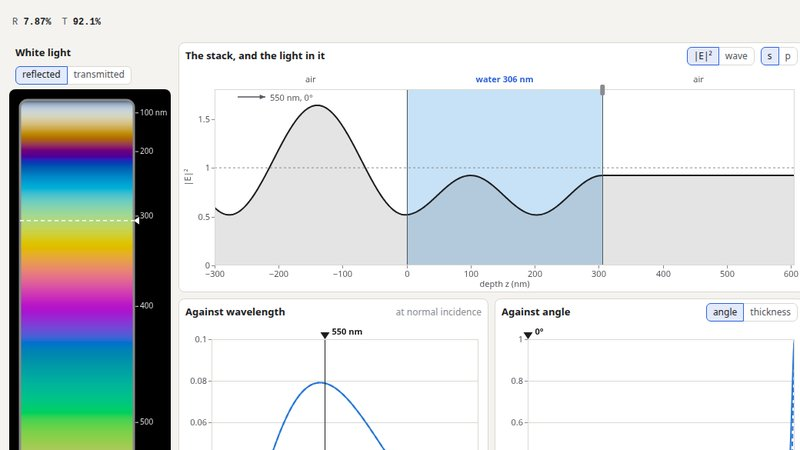
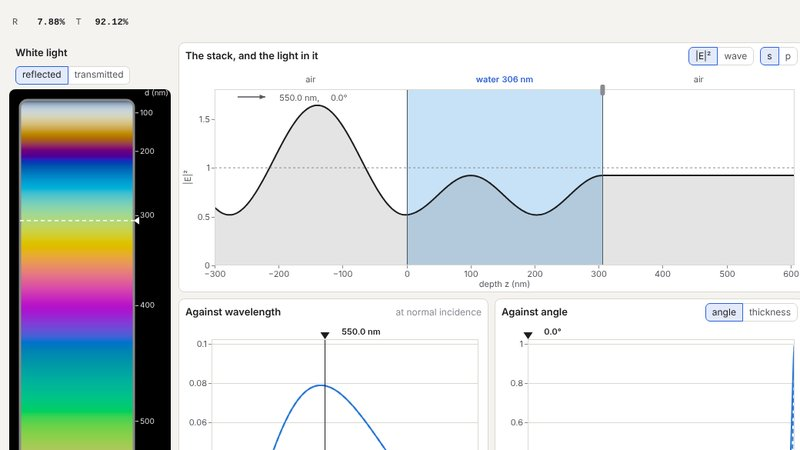
Thin films: the white-light picture's scale says it is the thickness
The numbers beside the white-light picture (200, 400, 600 nm) had no
heading, and nothing on the page said they were the selected layer's
thickness; the scale is now headed "d (nm)", the name the thickness
slider uses.  The thumbnail is remade with it and the plots' new room
above 1 and below 0.  The unit test waits up to 30 s, not 5, for the
page in its frame to start on a busy machine.

Claude-Session: https://claude.ai/code/session_01Uf588EmEoW67UxQKckEGyR

diff --git a/thinfilms/app.js b/thinfilms/app.js
@@ -754,17 +754,17 @@ function drawFilm() {
   ctx.restore();
   ctx.strokeStyle = view === 'T' ? '#777' : '#888'; ctx.lineWidth = 3;
   roundRect(ctx, fx, fy, fw, fh, 10); ctx.stroke();
-  // A thickness scale on the right.
-  ctx.font = '10px system-ui, sans-serif'; ctx.textAlign = 'left'; ctx.textBaseline = 'middle'; ctx.fillStyle = ink; ctx.strokeStyle = ink; ctx.lineWidth = 1;
+  // A thickness scale on the right, headed with what it is: the selected layer's thickness.
+  ctx.font = '10px system-ui, sans-serif'; ctx.textAlign = 'right'; ctx.textBaseline = 'alphabetic'; ctx.fillStyle = ink; ctx.strokeStyle = ink; ctx.lineWidth = 1;
+  ctx.fillText('d (nm)', width - 3, fy - 6);
+  ctx.textAlign = 'left'; ctx.textBaseline = 'middle';
   const top = state.film.profile === 'wedge' ? state.film.dmax : state.film.hBottom;
-  let first = true;           // the unit goes on the first label
   for (const t of niceTicks(0, top, 5)) {
     const y = filmHeightOf(t);
     if (y === null || t === 0 && state.film.profile !== 'wedge') continue;
     const py = fy + y * fh;
     ctx.beginPath(); ctx.moveTo(fx + fw + 2, py); ctx.lineTo(fx + fw + 6, py); ctx.stroke();
-    ctx.fillText(first ? `${t} nm` : String(t), fx + fw + 8, py);
-    first = false;
+    ctx.fillText(String(t), fx + fw + 8, py);
   }
   if (state.film.profile === 'drain') {
     const yb = (25 / state.film.hBottom) ** 2;

diff --git a/tests/thinfilms.test.js b/tests/thinfilms.test.js
@@ -372,7 +372,8 @@ async function openPage() {
   const win = frame.contentWindow;
   win.addEventListener('error', (e) => errors.push(e.message));
   win.addEventListener('unhandledrejection', (e) => errors.push(String(e.reason)));
-  for (let i = 0; i < 100 && !win.__app?.ready; i++) await new Promise((r) => setTimeout(r, 50));
+  // (Up to 30 s: a machine busy with other test runs can be slow to start a page.)
+  for (let i = 0; i < 600 && !win.__app?.ready; i++) await new Promise((r) => setTimeout(r, 50));
   assert(win.__app?.ready, 'the page did not start');
   return { frame, win, errors };
 }
